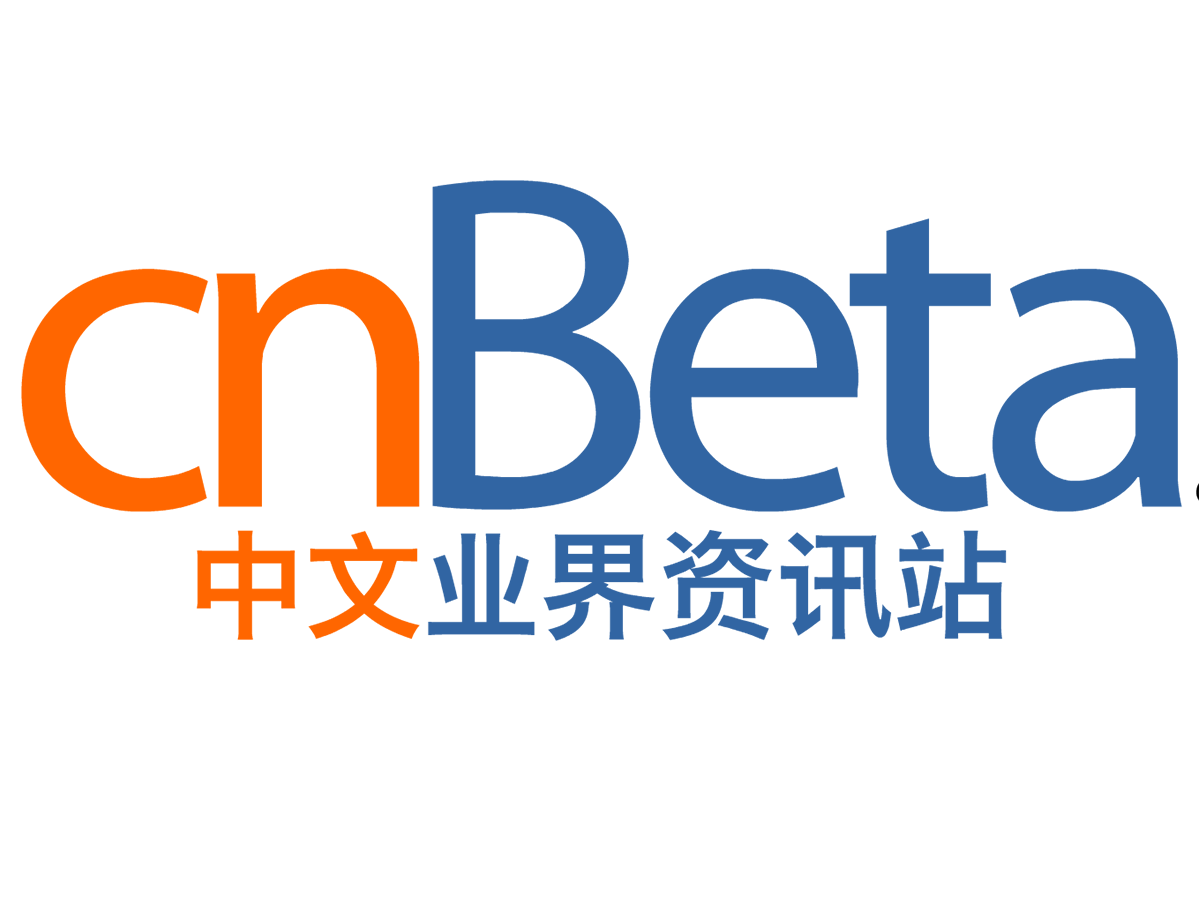
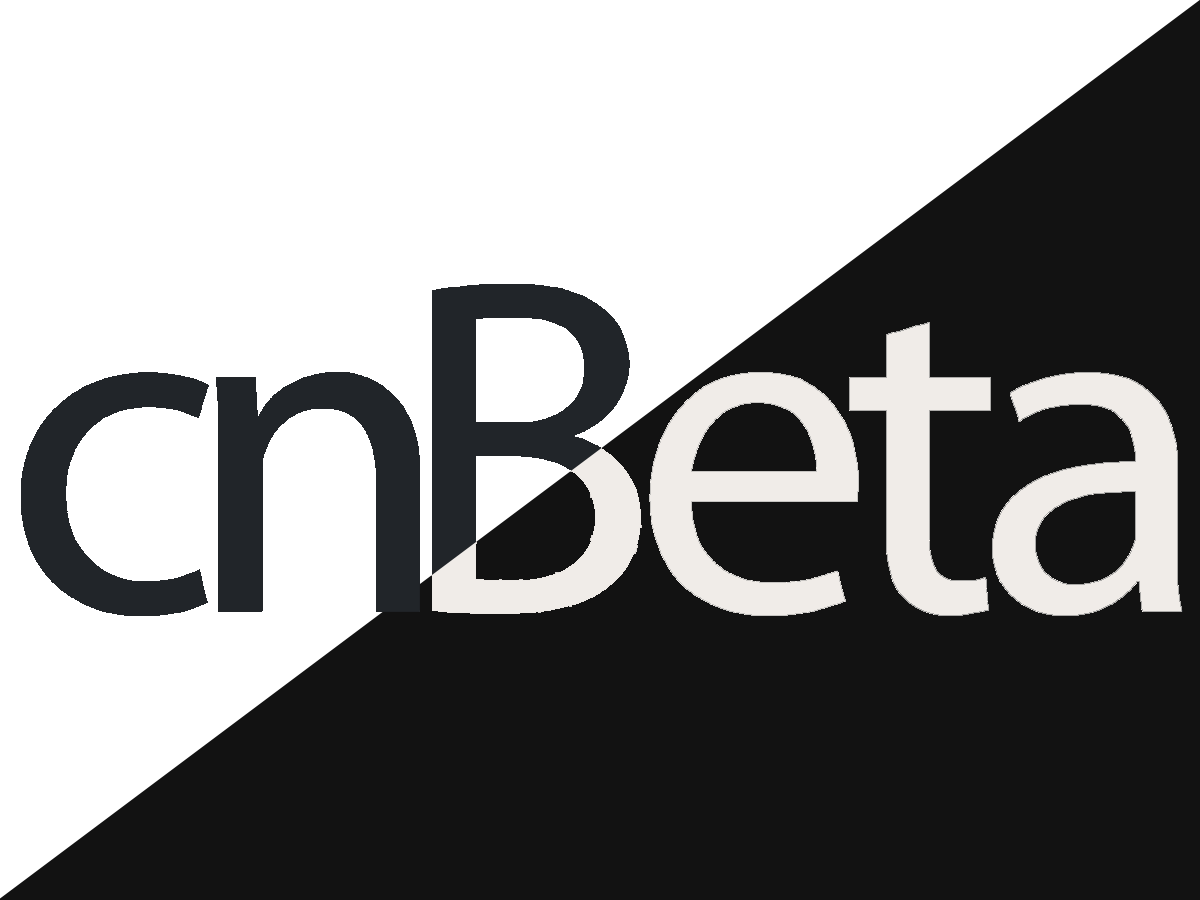
Add files via upload

diff --git a/style.css b/style.css
@@ -13,20 +13,6 @@ Text Domain: cnbeta
 Tags: one-column
 */
 
-/*--------------------------------------------------------------
->>> TABLE OF CONTENTS:
-----------------------------------------------------------------
-# Components
-	- Media
-	- Captions
-	- Blockquote
-# Utilities
-	- Alignments
-	- Bootstrap Custom
-# Customize
-
---------------------------------------------------------------*/
-
 
 /* Media
 --------------------------------------------- */
@@ -99,12 +85,6 @@ blockquote {
 	margin-bottom: 1.5em;
 }
 
-/* Bootstrap Custom
---------------------------------------------- */
-.ratio-3x2 {
-	--bs-aspect-ratio: 66.6666666667%;
-}
-
 /*--------------------------------------------------------------
 # Customize
 --------------------------------------------------------------*/
@@ -121,16 +101,8 @@ blockquote {
 	padding-right: 0.75rem !important;
 }
 
-figure .figure-img {
-	margin-bottom: 0;
-}
-
-figure .figure-caption {
-	margin-top: .5rem;
-}
-
-figure .figure-caption+.figure-img {
-	margin-top: 1rem;
+.format-standard .entry-title {
+	min-height: calc(3 * 1.25 * var(--bs-body-font-size));
 }
 
 .entry-content > p {
@@ -148,10 +120,6 @@ figure .figure-caption+.figure-img {
 
 .entry-content p > *:first-child, .entry-content blockquote > *:first-child {
 	margin-top: 0;
-}
-
-h2.entry-title {
-	min-height: calc(2 * 1.25 * var(--bs-body-font-size));
 }
 
 .entry-content > h2 {
@@ -177,4 +145,51 @@ h2.entry-title {
 
 .single footer {
 	display: none
+}
+
+/* Dark Mode
+--------------------------------------------- */
+@media (prefers-color-scheme: dark) {
+	:root {
+		--bs-body-color: #f0ece8;
+		--bs-body-color-rgb: 240, 236, 232;
+		--bs-body-bg: #121212;
+		--bs-body-bg-rgb: 18, 18, 18;
+		--bs-heading-color: inherit;
+		--bs-secondary-rgb: 165, 156, 148;
+		--bs-border-color: #332f2b;
+		--bs-link-color: #3d8bfd;
+		--bs-link-color-rgb: 61, 139, 253;
+		--bs-link-hover-color: #6ea8fe;
+		--bs-link-hover-color-rgb: 110, 168, 254;
+		--bs-code-color: #de5c9d;
+		--bs-highlight-color: #f0ece8;
+		--bs-highlight-bg: #332701;
+	}
+
+	.link-dark {
+		color: #f0ece8 !important;
+	}
+
+	.link-dark:focus, .link-dark:hover {
+		color: #f7f3f0 !important;
+	}
+
+	.btn-dark {
+		--bs-btn-color: #121212;
+		--bs-btn-bg: #f0ece8;
+		--bs-btn-border-color: #f0ece8;
+		--bs-btn-hover-color: #121212;
+		--bs-btn-hover-bg: #cfcbc8;
+		--bs-btn-hover-border-color: #dad6d3;
+		--bs-btn-focus-shadow-rgb: 207, 203, 200;
+		--bs-btn-active-color: #121212;
+		--bs-btn-active-bg: #c4c0bd;
+		--bs-btn-active-border-color: #dad6d3;
+		--bs-btn-active-shadow: inset 0 3px 5px rgba(255, 255, 255, 0.125);
+	}
+
+	.btn {
+		--bs-btn-box-shadow: inset 0 1px 0 rgba(18, 18, 18, 0.15), 0 1px 1px rgba(255, 255, 255, 0.075);
+	}
 }

diff --git a/functions.php b/functions.php
@@ -61,21 +61,21 @@ add_action( 'after_setup_theme', 'cnbeta_setup' );
 /**
  * Set Image Sizes
  */
-set_post_thumbnail_size( 72, 72, true );
-add_image_size( 'post_2x-thumbnail', 144, 144, true );
-add_image_size( 'post_3x-thumbnail', 216, 216, true );
+set_post_thumbnail_size( 128, 72, true );
+add_image_size( 'post_2x-thumbnail', 256, 144, true );
+add_image_size( 'post_3x-thumbnail', 384, 216, true );
 
-add_image_size( 'full-thumbnail', 444 );
-add_image_size( 'full_2x-thumbnail', 888 );
-add_image_size( 'full_3x-thumbnail', 1332 );
+add_image_size( 'full-thumbnail', 512 );
+add_image_size( 'full_2x-thumbnail', 1024 );
+add_image_size( 'full_3x-thumbnail', 1536 );
 
 
 /**
  * Enqueue scripts and styles.
  */
 function cnbeta_scripts() {
-	wp_enqueue_style( 'cnbeta-style', get_stylesheet_uri(), array(), null );
 	wp_enqueue_style( 'bootstrap', get_template_directory_uri() . '/bootstrap/bootstrap.min.css', array(), '5.3.3' );
+	wp_enqueue_style( 'cnbeta-style', get_stylesheet_uri(), array(), null );
 	// wp_enqueue_script( 'bootstrap', get_template_directory_uri() . '/bootstrap/bootstrap.bundle.min.js', array(), '5.3.3', true );
 }
 add_action( 'wp_enqueue_scripts', 'cnbeta_scripts' );
@@ -87,5 +87,5 @@ add_action( 'wp_enqueue_scripts', 'cnbeta_scripts' );
 add_filter('next_posts_link_attributes', 'newer_posts');
  
 function newer_posts() {
-    return 'class="next_posts btn btn-primary" role="button"';
+    return 'class="next_posts btn btn-dark" role="button"';
 }

diff --git a/header.php b/header.php
@@ -11,7 +11,7 @@
 
 ?>
 <!doctype html>
-<html <?php language_attributes(); ?> data-bs-theme="auto">
+<html <?php language_attributes(); ?>>
 <head>
 	<meta charset="<?php bloginfo( 'charset' ); ?>">
 	<meta name="viewport" content="width=device-width, initial-scale=1">
@@ -26,7 +26,7 @@
 <div id="page" class="site container-fluid py-3">
 
 	<?php if ( !is_singular() ) : ?>
-	<header id="masthead" class="site-header border-bottom mb-3 ratio ratio-4x3">
+	<header id="masthead" class="site-header border-bottom mb-3 ratio ratio-16x9">
 		<div class="site-branding">
 				<h1 class="site-title fw-bold m-0"><a href="<?php echo esc_url( home_url( '/' ) ); ?>" class="link-dark text-decoration-none" rel="home"><?php bloginfo( 'name' ); ?></a></h1>
 		</div>
